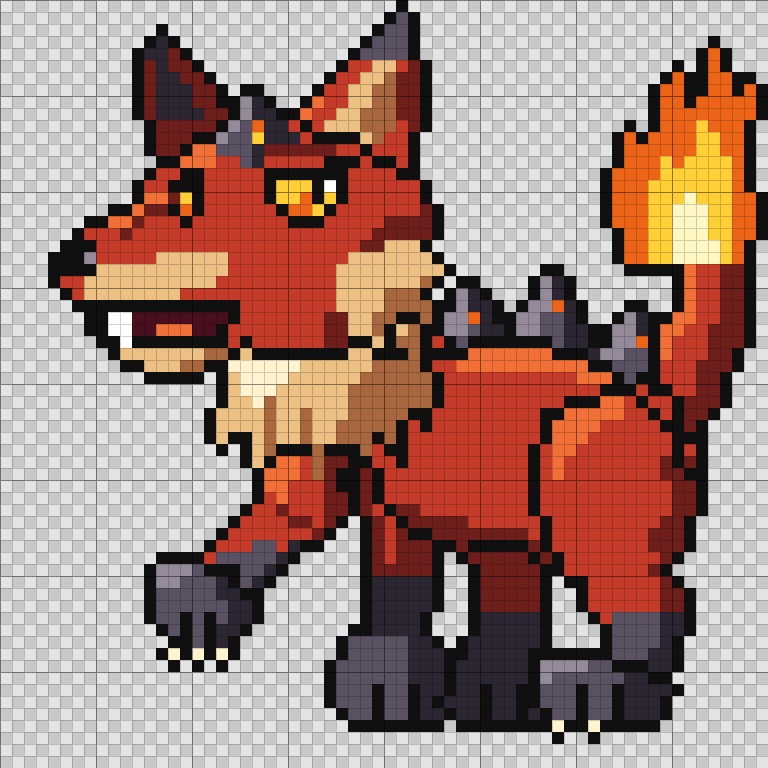
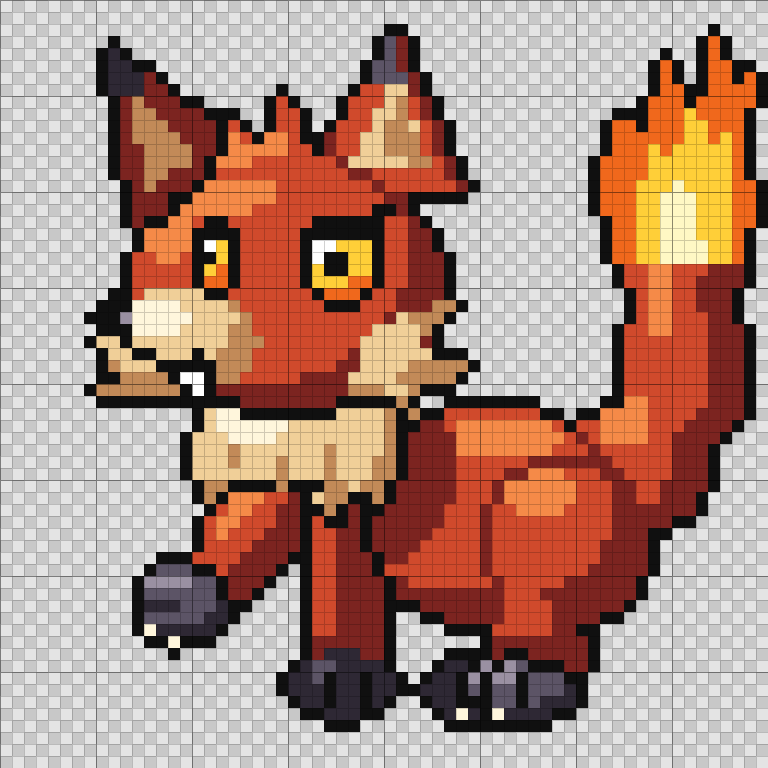
Redraw Kindlet with starter proportions and BW cel shading
Big head, compact body, lifted forepaw; crescent shadows and cast
shadow under the head, dark-red contours for fur-on-fur overlaps,
larger eyes and a triangular fang. Adds a side-by-side preview
against the BW reference sprites.

Claude-Session: https://claude.ai/code/session_015N853SUWqrmyHcbNWNuNxK

diff --git a/art/creatures/kindlet.px.js b/art/creatures/kindlet.px.js
@@ -1,26 +1,28 @@
 // Kindlet — Fire. Pipeline test creature (CLAUDE.md §4): 64x64, 15 colours + transparent,
-// 3/4 view facing screen-left like a BW2 front battle sprite.
+// 3/4 view facing screen-left like a BW2 front battle sprite. Starter proportions.
 //
-// Built the way BW sprites are: every body segment is a hand-placed polygon with its joints
-// where the anatomy puts them; each gets a flat base, hand-placed shadow (lower right) and
-// highlight (upper left) shapes. Wherever a segment overlaps one behind it, its contour gets
-// a black line. Far-side limbs use the shadow material. Face and paws are hand-placed pixels.
+// Built the way BW sprites are: rounded masses with BW cel shading (a shadow crescent on the
+// lower right, a highlight on the upper left, 2-3 flat tones per material, no dithering),
+// a black contour wherever a part overlaps one behind it, far-side limbs in the shadow tone.
+// Face, paws and fur detail are hand-placed pixels on top.
 //
-// Fire face style: upturned almond eyes with a heavy lid, amber-to-orange iris, slit pupil;
-// open snarl with one big upper fang.
+// Fire face style: big upturned eyes with a thick lid that flicks up at the outer corner,
+// amber iris, white glint; a cheeky single fang over the lower lip.
 
 pal({
   k: "#101010",                                       // outline
-  D: "#6e1f1c", d: "#c43c29", r: "#f07038",           // hide: dark, base, light
-  b: "#a8673f", c: "#ecc183", C: "#fff3d0",           // cream fur
-  g: "#2b2631", G: "#5a5262", H: "#948a9a",           // charcoal (plates, socks, paws)
-  f: "#ec6418", y: "#ffcf38", Y: "#fff8c4",           // flame / iris
-  w: "#ffffff", m: "#4a0f1e",                         // fang/eye glint, mouth
+  D: "#7c2420", d: "#d04a2c", r: "#f58a48",           // hide: shadow, base, light
+  b: "#c28a58", c: "#f0cf98", C: "#fff6dc",           // cream fur
+  g: "#2e2834", G: "#5c5466", H: "#9a90a2",           // charcoal (ear tips, paws)
+  f: "#f0681c", y: "#ffcf38", Y: "#fff8c4",           // flame / iris
+  w: "#ffffff", m: "#58142a",                         // glint & fang, mouth
 })
 
 const W = 62, H = 62                 // outline adds 1px each side -> 64x64
 
-function inPoly(pts, x, y) {
+// ---- shapes: (x, y) => boolean, sampled at pixel centres
+const E = (cx, cy, rx, ry) => (x, y) => ((x + 0.5 - cx) / rx) ** 2 + ((y + 0.5 - cy) / ry) ** 2 <= 1
+const P = (pts) => (x, y) => {
   const px = x + 0.5, py = y + 0.5
   let inside = false
   for (let i = 0, j = pts.length - 2; i < pts.length; j = i, i += 2) {
@@ -29,150 +31,126 @@ function inPoly(pts, x, y) {
   }
   return inside
 }
+const U = (...ss) => (x, y) => ss.some((s) => s(x, y))
+const I = (a, b) => (x, y) => a(x, y) && b(x, y)
 
-// Segments back to front. poly: silhouette, c: base, tone: [[poly, colour], ...] painted
-// only inside the silhouette. Segments in the same group join without a contour line.
-const segs = [
-  // ---- tail, rising from the rump, flame on the tip
-  { g: "tail", poly: [48, 32, 53, 29, 56, 24, 56, 17, 61, 17, 61, 27, 58, 34, 52, 38], c: "d",
-    tone: [[[59, 17, 62, 17, 62, 27, 58, 35, 54, 38, 57, 31, 59, 25], "D"],
-           [[52, 29, 55, 24, 55, 17, 57, 17, 57, 25, 54, 30], "r"]] },
-  { g: "flame", poly: [51, 21, 50, 14, 52, 9, 53, 12, 55, 4, 57, 9, 59, 1, 60, 8, 62, 6, 61, 13, 62, 17, 61, 21], c: "f",
-    tone: [[[53, 21, 53, 15, 55, 11, 56, 14, 58, 7, 59, 13, 60, 11, 60, 21], "y"],
-           [[55, 21, 55, 17, 57, 14, 58, 17, 59, 21], "Y"]] },
+// ---- parts, back to front
+// s: silhouette, c: base, sh: [colour, dx, dy] shadow crescent (pixels whose (x+dx, y+dy)
+// falls outside the silhouette), hl: [colour, shape] highlight, tone: [[shape, colour]] extra
+// flats. Parts sharing g join without a contour line.
+const HIDE = { c: "d", sh: ["D", 3, 3] }
+const parts = [
+  // tail: big brush curling up behind, flame on the tip
+  { g: "tail", s: U(E(52, 38, 6, 5.5), E(56, 30, 5.5, 6.5), E(56, 21, 5, 5.5)), ...HIDE, sh: ["D", 3, 1],
+    hl: ["r", U(E(51, 34, 2, 2.5), E(54, 24, 1.5, 3))] },
+  { g: "flame", s: P([50, 21, 49, 13, 51, 8, 53, 11, 54, 3, 57, 9, 59, 0, 60, 7, 62, 5, 61, 12, 62, 16, 61, 21]), c: "f",
+    tone: [[P([52, 21, 52, 15, 54, 10, 55, 13, 57, 6, 58, 12, 60, 10, 60, 21]), "y"],
+           [P([54, 21, 54, 16, 56, 13, 57, 16, 58, 21]), "Y"]] },
 
-  // ---- far hind leg (only the lower leg shows), shadow material
-  { g: "farHind", poly: [38, 42, 44, 42, 44, 51, 43, 55, 38, 55, 39, 49], c: "D",
-    tone: [[[37, 50, 45, 50, 45, 56, 37, 56], "g"]] },
-  { g: "farHind", poly: [36, 54, 43, 54, 45, 56, 44, 59, 37, 59, 36, 57], c: "g" },
+  // far legs (shadow tone)
+  { g: "farHind", s: E(38, 56.5, 3.6, 2.6), c: "g" },
+  { g: "farFront", s: P([25, 41, 31, 41, 31, 54, 25, 54]), c: "D", tone: [[P([25, 41, 27, 41, 27, 52, 25, 52]), "d"]] },
+  { g: "farFront", s: E(27.5, 56, 4.4, 2.8), c: "g", hl: ["G", E(26, 55, 1.6, 1)] },
 
-  // ---- far front leg, planted, shadow material
-  { g: "farFront", poly: [29, 37, 35, 37, 35, 47, 34, 53, 30, 53, 30, 47], c: "D",
-    tone: [[[29, 47, 36, 47, 36, 54, 29, 54], "g"], [[30, 37, 32, 37, 32, 46, 31, 46], "d"]] },
-  { g: "farFront", poly: [28, 52, 35, 52, 37, 55, 36, 59, 28, 59, 27, 56], c: "G",
-    tone: [[[33, 52, 37, 52, 37, 59, 33, 59], "g"]] },
+  // body, compact, behind the head
+  { g: "body", s: E(40, 42, 11, 9), ...HIDE, hl: ["r", E(41, 35.5, 5, 1.8)], tone: [[E(31, 38, 6, 8), "D"]] },
+  // near hind leg: round haunch, short foot under it
+  { g: "hind", s: U(E(46, 44, 7, 7.5), P([40, 49, 47, 49, 48, 55, 40, 55])), ...HIDE, hl: ["r", E(44, 40, 3, 2.5)] },
+  { g: "hindPaw", s: E(42, 56.2, 5.4, 2.8), c: "G", sh: ["g", 1, 1], hl: ["H", E(40, 55, 2, 1)] },
 
-  // ---- torso, receding up-right behind the chest
-  { g: "body", poly: [30, 30, 36, 27, 44, 27, 50, 28, 55, 31, 57, 36, 56, 42, 52, 45, 46, 46, 40, 45, 34, 44, 30, 40], c: "d",
-    tone: [[[32, 41, 40, 43, 46, 44, 52, 43, 56, 38, 58, 36, 57, 43, 52, 46, 46, 47, 40, 46, 33, 45], "D"],
-           [[36, 28, 44, 28, 50, 29, 54, 31, 50, 31, 44, 30, 37, 30], "r"]] },
-  // charcoal spine plates
-  ...[[35, 29, 38, 22, 42, 28], [41, 28, 45, 21, 49, 29], [48, 30, 52, 24, 55, 32]].map((p) => ({
-    g: "plate", poly: p, c: "G",
-    tone: [[[p[2], p[3], p[4], p[5], p[2] + 1, p[5]], "g"], [[p[0], p[1], p[2], p[3], p[2], p[3] + 3, p[0] + 2, p[1]], "H"]],
-  })),
+  // chest ruff, jagged lower edge
+  { g: "chest", s: I(E(24, 37, 9, 7), P([14, 30, 34, 30, 34, 40, 31, 42, 29, 40, 27, 44, 25, 41, 22, 44, 20, 41, 17, 42, 14, 38])),
+    c: "c", sh: ["b", 2, 2], hl: ["C", E(20, 34, 3, 2)] },
 
-  // ---- near hind leg: thigh, knee forward, shin back to the hock, paw forward
-  { g: "hind", poly: [44, 33, 51, 31, 56, 35, 57, 41, 55, 46, 50, 48, 45, 46, 43, 40], c: "d",
-    tone: [[[54, 36, 58, 40, 56, 47, 50, 49, 48, 47, 52, 45, 55, 41], "D"],
-           [[45, 34, 50, 32, 52, 33, 47, 36, 45, 40], "r"]] },
-  { g: "hind", poly: [47, 45, 53, 44, 56, 49, 55, 52, 51, 52, 48, 49], c: "d",
-    tone: [[[53, 45, 57, 49, 56, 53, 52, 53, 54, 49], "D"]] },
-  { g: "hind", poly: [50, 50, 56, 50, 55, 55, 50, 55], c: "G",
-    tone: [[[54, 50, 57, 50, 56, 56, 53, 56], "g"]] },
-  { g: "hindPaw", poly: [44, 54, 53, 54, 55, 56, 54, 59, 44, 59, 43, 57], c: "G",
-    tone: [[[51, 54, 56, 54, 56, 60, 51, 60], "g"], [[44, 54, 49, 54, 47, 55, 44, 56], "H"]] },
+  // near front leg, stepping forward
+  { g: "arm", s: P([18, 39, 26, 39, 24, 45, 19, 49, 15, 48, 16, 43]), ...HIDE, sh: ["D", 2, 2], hl: ["r", P([18, 40, 21, 40, 18, 44, 17, 44])] },
+  { g: "armPaw", s: E(14.5, 49, 4, 3.2), c: "G", sh: ["g", 1, 1], hl: ["H", E(13, 47.5, 2, 1)] },
 
-  // ---- chest fluff, jagged lower edge
-  { g: "chest", poly: [17, 27, 34, 26, 36, 31, 35, 35, 33, 34, 33, 38, 30, 36, 29, 41, 27, 37, 25, 42, 23, 37, 21, 40, 20, 35, 17, 36, 18, 31], c: "c",
-    tone: [[[30, 29, 34, 26, 37, 31, 35, 35, 33, 34, 33, 38, 30, 36, 29, 41, 27, 37, 28, 32], "b"],
-           [[18, 29, 25, 28, 23, 31, 20, 33], "C"]] },
+  // ears: far (shadow tone), near
+  { g: "farEar", s: P([10, 18, 8, 3, 21, 12]), c: "D",
+    tone: [[P([11, 15, 10, 7, 16, 12]), "b"], [P([7, 1, 11, 1, 11, 7, 8, 7]), "g"]] },
+  { g: "ear", s: P([25, 14, 32, 1, 38, 15]), ...HIDE, sh: ["D", 1, 0],
+    tone: [[P([28, 13, 32, 5, 35, 13]), "c"], [P([31, 12, 32, 6, 35, 13]), "b"], [P([29, -1, 36, -1, 35, 6, 30, 6]), "G"]] },
 
-  // ---- near front leg, lifted mid-step: upper arm down to the elbow, forearm forward,
-  //      wrist bent so the paw hangs pads-back
-  { g: "arm", poly: [21, 36, 29, 36, 28, 41, 26, 44, 22, 44, 21, 40], c: "d",
-    tone: [[[26, 37, 30, 36, 28, 42, 26, 45, 24, 44, 26, 41], "D"], [[21, 37, 24, 37, 23, 41, 22, 42], "r"]] },
-  { g: "arm", poly: [21, 41, 26, 42, 23, 46, 19, 49, 15, 49, 15, 46], c: "d",
-    tone: [[[15, 46, 19, 45, 22, 44, 23, 46, 19, 49, 15, 49], "G"], [[20, 47, 24, 44, 23, 47, 19, 50], "g"],
-           [[22, 41, 26, 42, 24, 44], "D"]] },
-  { g: "armPaw", poly: [12, 46, 19, 46, 20, 50, 18, 53, 14, 53, 12, 50], c: "G",
-    tone: [[[17, 47, 21, 47, 20, 51, 18, 54, 16, 54, 18, 50], "g"], [[12, 46, 15, 46, 13, 49], "H"]] },
-
-  // ---- far ear (shadow material), near ear
-  { g: "farEar", poly: [12, 12, 11, 5, 12, 1, 16, 5, 19, 10], c: "D",
-    tone: [[[12, 9, 12, 4, 15, 6, 16, 9], "g"], [[11, 0, 13, 0, 13, 4, 11, 4], "g"]] },
-  { g: "ear", poly: [22, 11, 28, 4, 33, 0, 34, 7, 33, 13], c: "d",
-    tone: [[[26, 10, 30, 4, 32, 4, 32, 10, 29, 12], "c"], [[29, 9, 32, 4, 32, 10, 30, 11], "b"],
-           [[30, 0, 35, 0, 34, 4, 29, 4], "G"], [[32, 5, 35, 4, 34, 13, 33, 13], "D"], [[23, 10, 27, 5, 25, 9], "r"]] },
-
-  // ---- head
-  { g: "head", poly: [11, 14, 16, 10, 22, 9, 28, 10, 33, 13, 35, 17, 34, 21, 31, 27, 27, 29, 21, 29, 17, 27, 13, 24, 10, 19], c: "d",
-    tone: [[[30, 18, 35, 16, 35, 22, 31, 28, 27, 30, 26, 26], "D"], [[14, 12, 18, 10, 22, 10, 18, 12, 15, 15], "r"]] },
-  // cheek tuft
-  { g: "head", poly: [27, 21, 33, 19, 37, 22, 34, 23, 36, 26, 32, 26, 33, 29, 28, 28], c: "c",
-    tone: [[[31, 23, 37, 22, 34, 23, 36, 26, 32, 26, 33, 29, 30, 27], "b"]] },
-  // snout, wedge pointing forward-left
-  { g: "head", poly: [13, 14, 18, 16, 19, 22, 13, 24, 6, 24, 4, 22, 5, 19, 9, 17], c: "d",
-    tone: [[[6, 21, 18, 20, 19, 24, 6, 24], "c"], [[7, 18, 12, 15, 14, 16, 10, 18], "r"]] },
-  // forehead plate
-  { g: "head", poly: [16, 11, 20, 6, 24, 11, 20, 13], c: "G",
-    tone: [[[20, 6, 24, 11, 20, 13], "g"], [[16, 11, 20, 6, 20, 9, 18, 11], "H"]] },
-  // lower jaw, dropped open
-  { g: "jaw", poly: [8, 27, 18, 27, 20, 29, 13, 30, 9, 29], c: "c",
-    tone: [[[14, 29, 19, 28, 20, 29, 13, 31], "b"]] },
+  // head: big and round
+  { g: "head", s: E(23, 23, 13, 11), ...HIDE, hl: ["r", U(E(17, 15, 5, 2), E(13, 18, 2, 3))],
+    tone: [[P([17, 13, 19, 9, 21, 13]), "d"]] },
+  // forehead tuft
+  { g: "head", s: P([16, 14, 18, 8, 21, 12, 23, 6, 25, 13, 27, 9, 28, 15]), c: "d", hl: ["r", P([17, 13, 18, 9, 20, 12, 22, 8, 23, 12])] },
+  // cheek fluff, both sides
+  { g: "head", s: P([30, 26, 37, 24, 34, 28, 39, 30, 33, 32, 34, 34, 28, 32]), c: "c", sh: ["b", 1, 2] },
+  { g: "head", s: P([12, 27, 7, 27, 10, 30, 6, 32, 13, 32]), c: "c", sh: ["b", 1, 1] },
+  // muzzle, short
+  { g: "head", s: E(14, 27.5, 6.5, 4.5), c: "c", sh: ["b", 2, 2], hl: ["C", E(12, 25.5, 3, 1.2)] },
 ]
 
 sprite("kindlet", { w: W, h: H, outline: "k" }, (c) => {
   const own = new Int16Array(W * H).fill(-1)
   const col = new Array(W * H).fill(null)
-  segs.forEach((s, i) => {
+  parts.forEach((p, i) => {
     for (let y = 0; y < H; y++) for (let x = 0; x < W; x++) {
-      if (!inPoly(s.poly, x, y)) continue
-      let k = s.c
-      for (const [p, t] of s.tone || []) if (inPoly(p, x, y)) k = t
+      if (!p.s(x, y)) continue
+      let k = p.c
+      if (p.hl && p.hl[1](x, y)) k = p.hl[0]
+      for (const [s, t] of p.tone || []) if (s(x, y)) k = t
+      if (p.sh && !p.s(x + p.sh[1], y + p.sh[2])) k = p.sh[0]
       own[y * W + x] = i; col[y * W + x] = k
     }
   })
-  // contour line on a segment's edge wherever it overlaps a segment behind it
+  // contour on a part's edge wherever it overlaps a part behind it
   const out = col.slice()
   for (let y = 0; y < H; y++) for (let x = 0; x < W; x++) {
     const i = own[y * W + x]
-    if (i < 0 || segs[i].g === "flame") continue
+    if (i < 0 || parts[i].g === "flame") continue
     for (const [dx, dy] of [[1, 0], [-1, 0], [0, 1], [0, -1]]) {
       const xx = x + dx, yy = y + dy
       if (xx < 0 || yy < 0 || xx >= W || yy >= H) continue
       const j = own[yy * W + xx]
-      if (j >= 0 && j < i && segs[j].g !== segs[i].g && segs[j].g !== "flame") { out[y * W + x] = "k"; break }
+      if (j >= 0 && j < i && parts[j].g !== parts[i].g && parts[j].g !== "flame") {
+        out[y * W + x] = parts[i].c === "d" && parts[j].c === "d" ? "D" : "k"; break
+      }
     }
   }
   for (let y = 0; y < H; y++) for (let x = 0; x < W; x++) if (out[y * W + x]) c.px(x, y, out[y * W + x])
 },
   // ---- face ----
-  // near eye: heavy lid, slit pupil, amber to orange iris, glint
-  grid(21, 12, `
-    .....kkk
+  // near eye: big, thick lid flicking up at the outer corner, amber iris, glint
+  grid(24, 16, `
+    ......kk
+    .kkkkkk.
     kkkkkkk.
-    kyyykwk.
-    kyyfkyk.
-    .kffyk..
+    kwwyyyk.
+    kwkkyyk.
+    kykkyyk.
+    kyyyffk.
+    .kfffk..
     ..kkk...`),
-  // far eye, foreshortened beside the snout bridge
-  grid(13, 13, `
-    .kk
-    kkk
-    kyk
-    kfk
-    .k.`),
+  // far eye, foreshortened
+  grid(15, 17, `
+    .kk.
+    kkkk
+    kwyk
+    kkyk
+    kyfk
+    kffk
+    .kk.`),
   // nose
-  grid(4, 19, `
+  grid(7, 24, `
     .kk
     kkH
-    kkk`),
-  // open mouth with one big upper fang, tongue
-  grid(7, 24, `
-    kkkkkkkkkkkk
-    kwwmmmmmmmmk
-    kwwmmrrrmmk.
-    .kwkkkkkkk..`),
-  // snout ridge and brow lines
-  line(9, 18, 13, 15, "D"), hline(21, 11, 6, "D"),
-  // fur clumps on the chest
-  line(24, 33, 25, 38, "b"), line(28, 31, 29, 36, "b"), line(21, 32, 21, 36, "b"),
-  // toes split by black lines, claw tips
-  vline(14, 50, 3, "k"), vline(16, 50, 3, "k"), px(13, 53, "C"), px(15, 53, "C"), px(17, 53, "C"),
-  vline(47, 56, 3, "k"), vline(50, 56, 3, "k"), px(45, 59, "C"), px(48, 59, "C"),
-  vline(30, 56, 3, "k"), vline(33, 56, 3, "k"),
-  vline(39, 56, 3, "k"), vline(42, 56, 3, "k"),
-  // embers glowing in the plate cracks
-  px(38, 25, "f"), px(45, 24, "f"), px(52, 27, "f"), px(20, 9, "f"), px(20, 10, "y"),
+    .kk`),
+  // smile, one triangular fang over the lower lip
+  grid(9, 27, `
+    k.......
+    .kk...k.
+    ...kkkkk
+    ....kwwk
+    .....kwk
+    ......k.`),
+  // fur lines on the ruff
+  vline(22, 37, 3, "b"), vline(26, 36, 3, "b"), vline(18, 36, 2, "b"),
+  // toes and claws
+  hline(11, 49, 3, "g"), px(11, 51, "C"), px(13, 52, "C"),
+  vline(39, 55, 3, "k"), vline(42, 55, 3, "k"), px(37, 58, "C"), px(40, 58, "C"),
+  vline(26, 55, 3, "k"), vline(29, 55, 3, "k"),
 )
